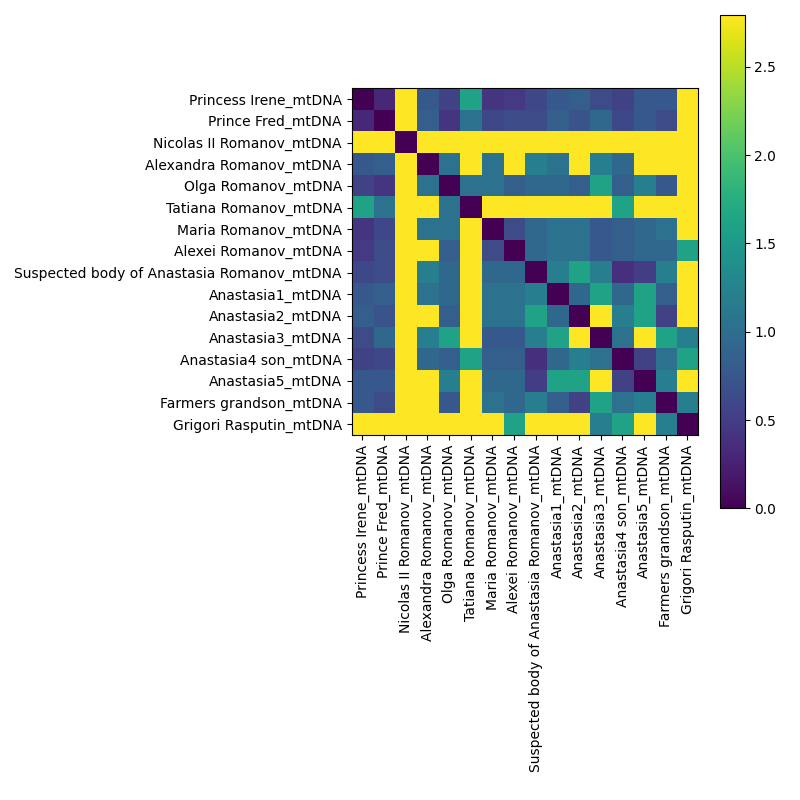
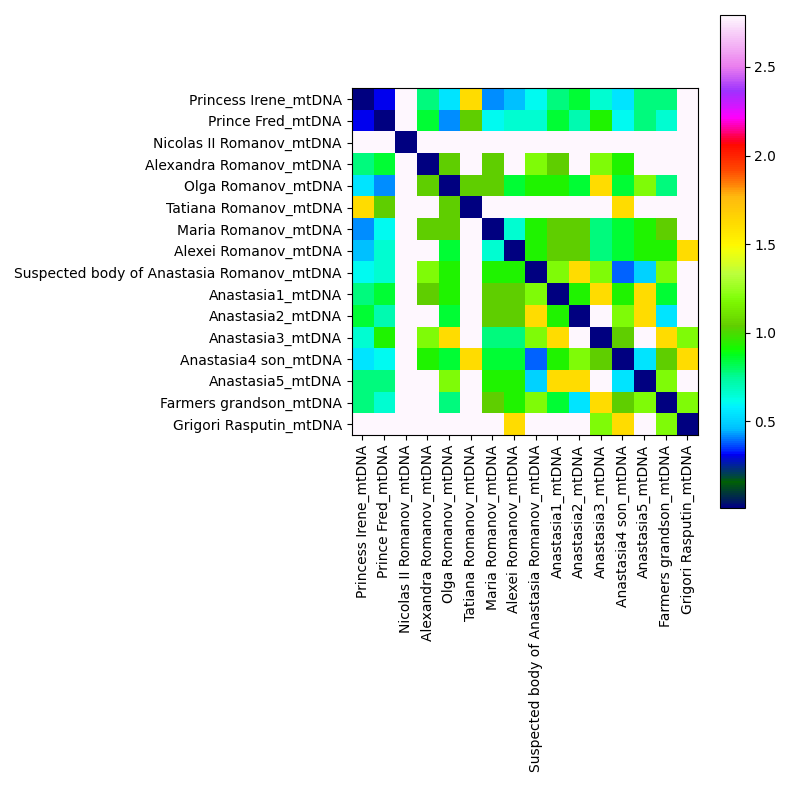
sync

Changed region(s): [[0.4375, 0.0, 0.9688, 0.6562]]

diff --git a/src/partiiiprograms/.ipynb_checkpoints/DistanceMatrixPlotter-checkpoint.py b/src/partiiiprograms/.ipynb_checkpoints/DistanceMatrixPlotter-checkpoint.py
@@ -3,7 +3,6 @@ import os
 import math
 import numpy as np
 from scipy.cluster.hierarchy import linkage, dendrogram
-from sklearn.metrics import confusion_matrix, ConfusionMatrixDisplay
 from scipy.spatial.distance import squareform
 import matplotlib.pyplot as plt
 
@@ -58,7 +57,7 @@ def tsv_array_converter(filepath):
             try:
                 data_array[i][j] = data[i+1][j+1]
             except ValueError:
-                data_array[i][j] = 0.  # this position contains "" in the input data
+                data_array[i][j] = 0.01  # this position contains "" in the input data
     
     return data_array, labels
 
@@ -88,14 +87,15 @@ def custom_heatmap(data, labels):
         for j in range(len(data)):
             data[i][j] = np.float64(math.log(data[i][j] + 1))
     fig, ax = plt.subplots(figsize=(8, 8))
-    pos = ax.imshow(data)#, cmap="hsv")
+    pos = ax.imshow(data, cmap="gist_ncar")
     fig.colorbar(pos)
     xticks, yticks = list(labels), list(labels)
     plt.xticks(range(len(labels)), xticks, rotation=90)
     plt.yticks(range(len(labels)), yticks)
-    plt.tight_layout()
+    fig.tight_layout()
     plt.savefig("heatmap.png")
 
-data, labels = tsv_array_converter(input_file)
-custom_dendrogram(data, labels)
-custom_heatmap(data, labels)
+if __name__ == "__main__":
+    data, labels = tsv_array_converter(input_file)
+    custom_dendrogram(data, labels)
+    custom_heatmap(data, labels)

diff --git a/src/partiiiprograms/DistanceMatrixPlotter.py b/src/partiiiprograms/DistanceMatrixPlotter.py
@@ -3,7 +3,6 @@ import os
 import math
 import numpy as np
 from scipy.cluster.hierarchy import linkage, dendrogram
-from sklearn.metrics import confusion_matrix, ConfusionMatrixDisplay
 from scipy.spatial.distance import squareform
 import matplotlib.pyplot as plt
 
@@ -58,7 +57,7 @@ def tsv_array_converter(filepath):
             try:
                 data_array[i][j] = data[i+1][j+1]
             except ValueError:
-                data_array[i][j] = 0.  # this position contains "" in the input data
+                data_array[i][j] = 0.01  # this position contains "" in the input data
     
     return data_array, labels
 
@@ -88,14 +87,15 @@ def custom_heatmap(data, labels):
         for j in range(len(data)):
             data[i][j] = np.float64(math.log(data[i][j] + 1))
     fig, ax = plt.subplots(figsize=(8, 8))
-    pos = ax.imshow(data)#, cmap="hsv")
+    pos = ax.imshow(data, cmap="gist_ncar")
     fig.colorbar(pos)
     xticks, yticks = list(labels), list(labels)
     plt.xticks(range(len(labels)), xticks, rotation=90)
     plt.yticks(range(len(labels)), yticks)
-    plt.tight_layout()
+    fig.tight_layout()
     plt.savefig("heatmap.png")
 
-data, labels = tsv_array_converter(input_file)
-custom_dendrogram(data, labels)
-custom_heatmap(data, labels)
+if __name__ == "__main__":
+    data, labels = tsv_array_converter(input_file)
+    custom_dendrogram(data, labels)
+    custom_heatmap(data, labels)
